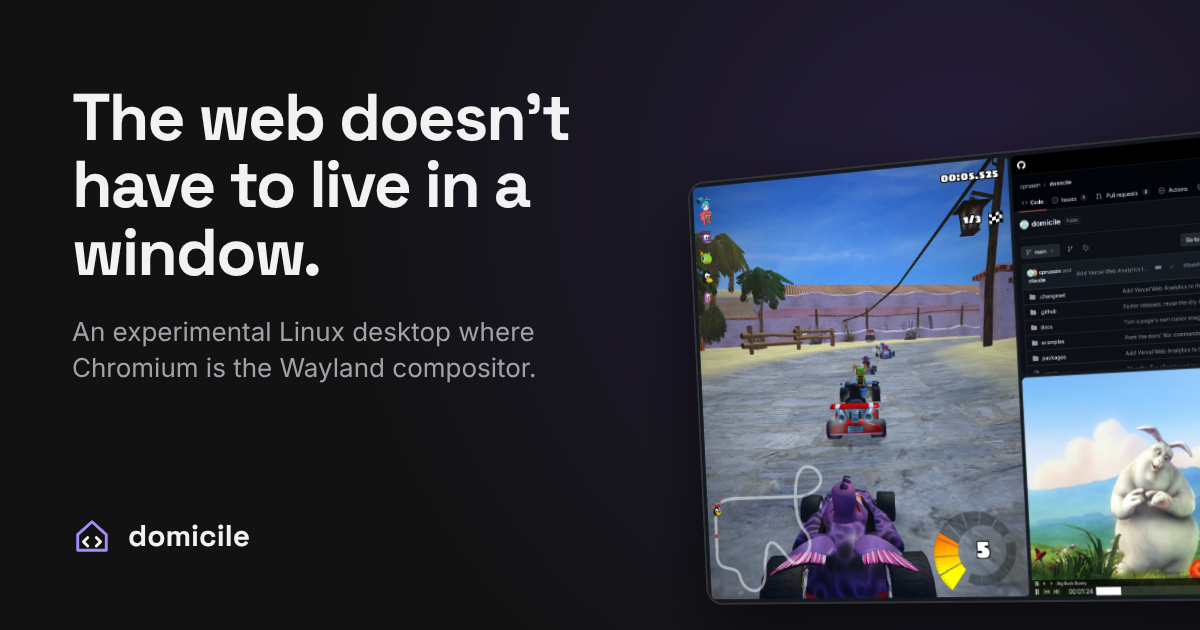
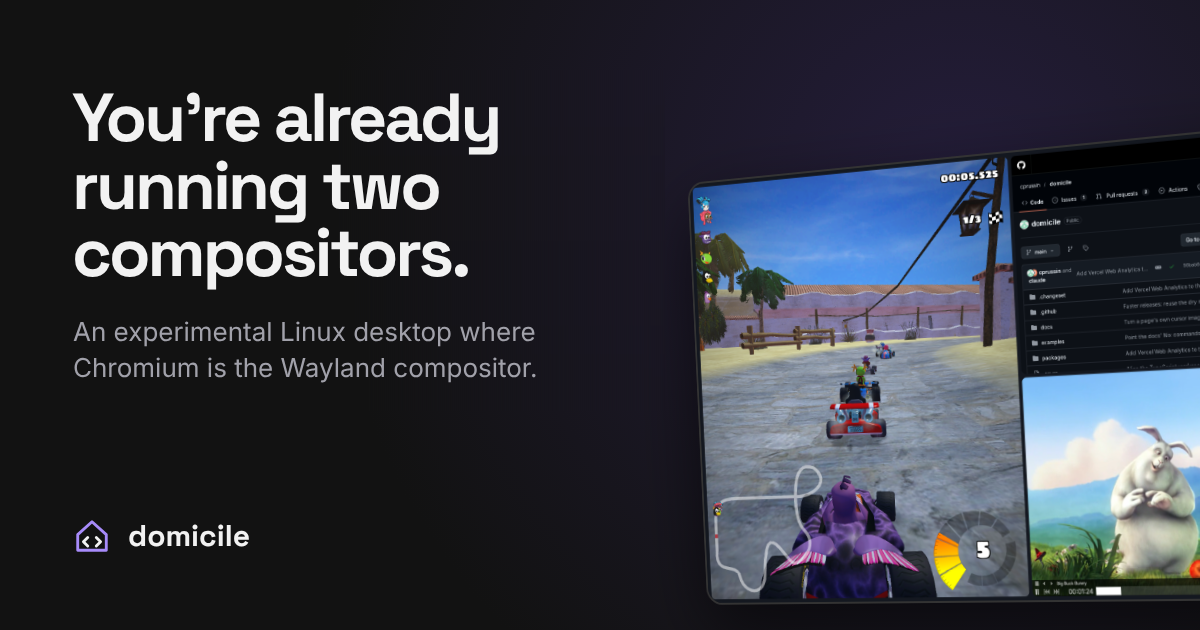
Headline the site with "You're already running two compositors." (#1949)

Changed region(s): [[0.0617, 0.1508, 0.4933, 0.4524], [0.0617, 0.573, 0.4625, 0.6032], [0.0617, 0.5127, 0.4625, 0.5429]]

diff --git a/packages/site/src/domicile/Hero.tsx b/packages/site/src/domicile/Hero.tsx
@@ -17,9 +17,9 @@ export const Hero = () => (
     }
     lede={
       <>
-        Domicile brings Chromium and Wayland together, making websites and
-        native applications part of the same desktop. Your desktop lays out
-        websites, native apps become DOM elements, and browser features like
+        For years we've run Chromium's compositor inside another compositor.
+        Domicile asks what happens when the two become one: your desktop lays
+        out websites, native apps become DOM elements, and browser features like
         casting, extensions and notifications become desktop features.
         <span className={experimentStyles}>
           An experiment in what becomes possible when the boundaries disappear.
@@ -27,7 +27,7 @@ export const Hero = () => (
       </>
     }
     tag={{ href: "#why", label: "A Linux desktop on Chromium" }}
-    title="The web doesn't have to live in a window."
+    title="You're already running two compositors."
   >
     {/* A window needs a Wayland session: there is no X11 backend. */}
     <p className={trialStyles}>

diff --git a/packages/site/src/app/page.tsx b/packages/site/src/app/page.tsx
@@ -25,9 +25,9 @@ import { shared } from "../page/shared";
 
 export const metadata = shared({
   description:
-    "Domicile brings Chromium and Wayland together, making websites and native applications part of the same desktop. Your desktop lays out websites, native apps become DOM elements, and browser features like casting, extensions and notifications become desktop features.",
+    "For years we've run Chromium's compositor inside another compositor. Domicile asks what happens when the two become one: your desktop lays out websites, native apps become DOM elements, and browser features like casting, extensions and notifications become desktop features.",
   path: "/",
-  title: "Domicile: the web doesn't have to live in a window",
+  title: "Domicile: you're already running two compositors",
 });
 
 /** domicile-desktop.com: Domicile, and building on it. */

diff --git a/packages/site/src/app/layout.tsx b/packages/site/src/app/layout.tsx
@@ -18,7 +18,7 @@ const jetbrainsMono = JetBrains_Mono({
 });
 
 export const metadata: Metadata = {
-  description: "The web doesn't have to live in a window.",
+  description: "You're already running two compositors.",
   metadataBase: new URL("https://domicile-desktop.com"),
   title: { default: "Domicile", template: "%s · Domicile" },
 };

diff --git a/README.md b/README.md
@@ -1,6 +1,6 @@
 # Domicile
 
-**The web doesn't have to live in a window. Your desktop lays out websites, native windows are DOM elements, and Chromium *is* the compositor. May God have mercy on our souls.**
+**You're already running two compositors. Your desktop lays out websites, native windows are DOM elements, and Chromium *is* the compositor. May God have mercy on our souls.**
 
 Domicile is an experimental Linux desktop where a modified Chromium is the Wayland compositor. Native apps, websites and the desktop's own interface are elements on one web page, laid out with CSS and composited together.
 

diff --git a/.changeset/site-headline-two-compositors.md b/.changeset/site-headline-two-compositors.md
@@ -1,0 +1,2 @@
+---
+---
